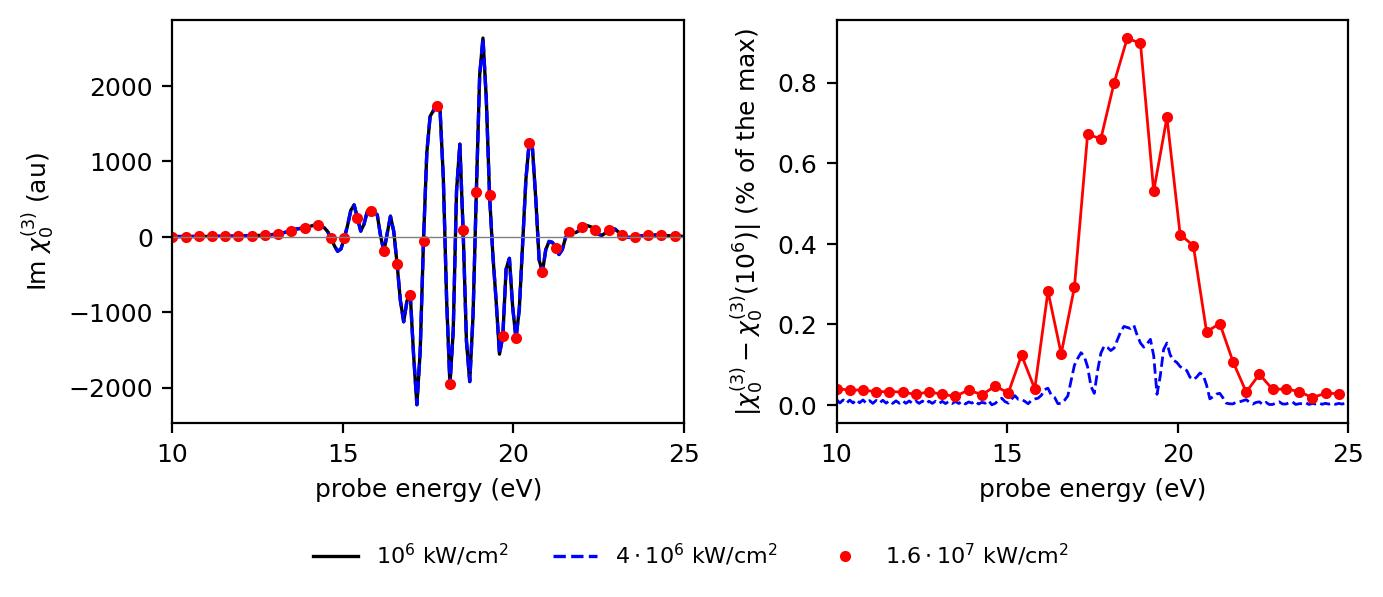
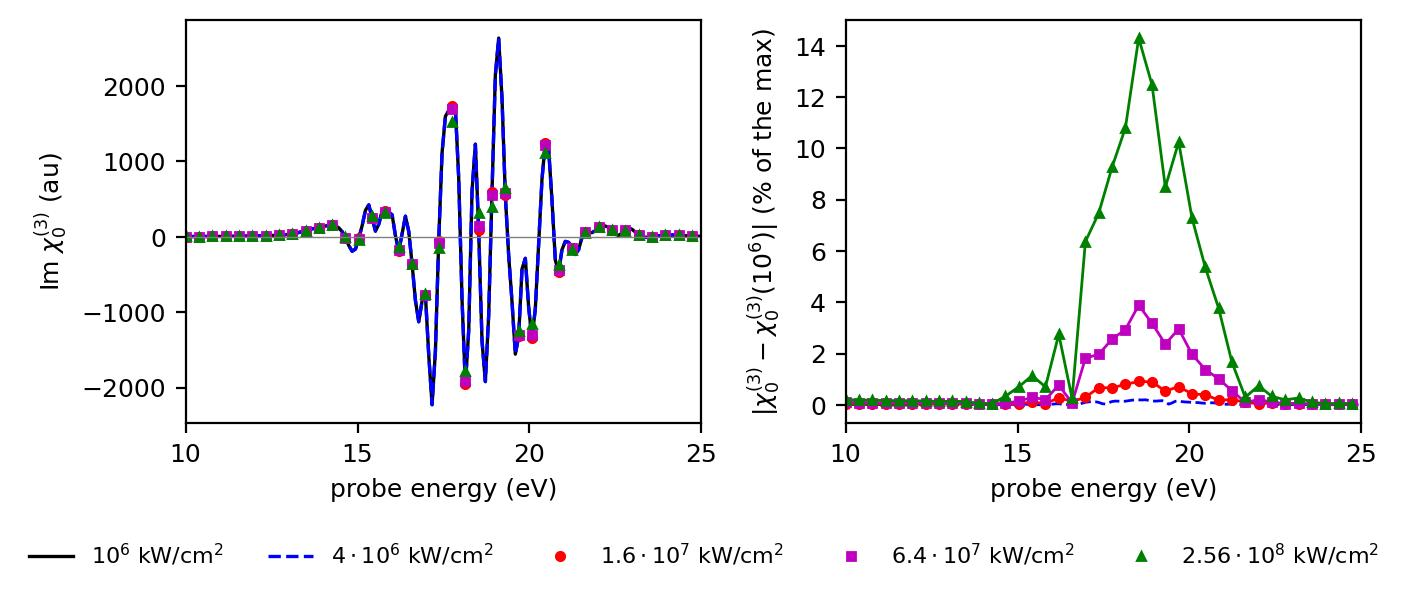
Extend the pump intensity test of the notes to 6.4e7 and 2.56e8 kW/cm^2

diff --git a/Notes/main.tex b/Notes/main.tex
@@ -566,23 +566,47 @@ third order term $\chiz$.}
 The extracted $\chi$ are the third order response only if the pump is weak enough. The key $(1,0)$ contains, besides
 $\chiz|\EP(\wP)|^2$, terms of fifth order proportional to $|\EP(\wP)|^4$, which after the division by $|\EP(\wP)|^2$ in
 Eq.~\eqref{eq:chi_from_keys} appear in the extracted $\chiz$ with a weight proportional to the pump intensity (and
-similarly for $\chi^{(3)}_\pm$). Fig.~\ref{fig:chi_pump} compares the $\chiz$ extracted on the kx12 grid with the pump
-intensities $10^6$, $4\cdot10^6$ and $1.6\cdot10^7$~kW/cm$^2$ (pump amplitudes $\EOP$, $2\EOP$ and $4\EOP$). The three
-curves are indistinguishable on the scale of $\chiz$. The differences with respect to $10^6$~kW/cm$^2$ are 0.2\%
-($4\cdot10^6$) and 1\% ($1.6\cdot10^7$) of $\chiz$ (median in 10-20~eV), concentrated in the resonant region above
-16~eV. Their ratio, $\sim5$, is the one expected for a term proportional to the intensity, $(16-1)/(4-1) = 5$: the fifth
-order terms are projected on $\chiz$. The same holds for $\chi^{(3)}_\pm$. The pump of our runs, $10^6$~kW/cm$^2$, is
-safely in the third order regime, and intensities up to $4\cdot10^6$~kW/cm$^2$ give the same $\chi$ with a larger
-signal.
+similarly for $\chi^{(3)}_\pm$). Fig.~\ref{fig:chi_pump} compares the $\chiz$ extracted on the kx12 grid with five
+pump intensities, from $10^6$ to $2.56\cdot10^8$~kW/cm$^2$ in steps of a factor 4 (pump amplitudes from $\EOP$ to
+$16\EOP$), and Tab.~\ref{tab:chi_pump} gives the maximum change of $\chiz$ and $\chi^{(3)}_\pm$ with respect to
+$10^6$~kW/cm$^2$. The changes are concentrated in the resonant region 17-21~eV, with the maximum around 18.5~eV, and
+they are proportional to the intensity, as expected for the fifth order terms: from $1.6\cdot10^7$ to
+$6.4\cdot10^7$~kW/cm$^2$ they grow by a factor 4.0-4.3, against $(64-1)/(16-1) = 4.2$. At $2.56\cdot10^8$~kW/cm$^2$ they
+grow less, by 3.4-3.7 against $(256-1)/(64-1) = 4.05$: the terms of higher order start to contribute.
+
+The pump of our runs, $10^6$~kW/cm$^2$, is safely in the third order regime, and intensities up to
+$4\cdot10^6$~kW/cm$^2$ give the same $\chi$ with a larger signal. The RT simulations of Sec.~\ref{sec:lif_rt_setup},
+at $6\cdot10^7$~kW/cm$^2$, are close to the run at $6.4\cdot10^7$~kW/cm$^2$: near the pump maximum the terms beyond the
+third order change their response by a few percent (up to 4\% of $\chiz$ and 7\% of $\chip$ around 18.5~eV), a limit
+to the precision of the comparison of Sec.~\ref{sec:lif_dchi}.
 
 \begin{figure}[h!]
 \centering
 \includegraphics[width=\textwidth]{Figures/chi_pump.jpeg}
-\caption{Third order term $\chiz$ extracted on the kx12 grid with three pump intensities (damping 0.3~eV, no a
-posteriori broadening). Left: imaginary part (the run at $1.6\cdot10^7$~kW/cm$^2$ has only 39 probe frequencies,
-dots). Right: difference with respect to the $\chiz$ extracted at $10^6$~kW/cm$^2$, in percent of its maximum.}
+\caption{Third order term $\chiz$ extracted on the kx12 grid with five pump intensities (damping 0.3~eV, no a
+posteriori broadening). Left: imaginary part (the runs above $4\cdot10^6$~kW/cm$^2$ have only 39 probe frequencies,
+symbols). Right: modulus of the difference with respect to the $\chiz$ extracted at $10^6$~kW/cm$^2$, in percent of
+its maximum.}
 \label{fig:chi_pump}
 \end{figure}
+
+\begin{table}[h!]
+\centering
+\begin{tabular}{ccccc}
+\toprule
+$I_{\mathrm{P}}$ (kW/cm$^2$) & amplitude & $\chiz$ & $\chip$ & $\chim$ \\
+\midrule
+$4\cdot10^6$    & $2\EOP$  & 0.20 & 0.41 & 0.18 \\
+$1.6\cdot10^7$  & $4\EOP$  & 0.91 & 1.84 & 0.73 \\
+$6.4\cdot10^7$  & $8\EOP$  & 3.89 & 7.45 & 3.11 \\
+$2.56\cdot10^8$ & $16\EOP$ & 14.3 & 25.2 & 11.4 \\
+\bottomrule
+\end{tabular}
+\caption{Maximum change of the third order terms extracted on the kx12 grid with the pump intensity $I_{\mathrm{P}}$,
+with respect to those extracted at $10^6$~kW/cm$^2$ (amplitude $\EOP$), in percent of the maximum of each term
+(probe frequencies of the runs in 10-20~eV).}
+\label{tab:chi_pump}
+\end{table}
 
 \subsection{Transient absorption from the $\chi$ and comparison with the RT results}
 \label{sec:lif_dchi}
